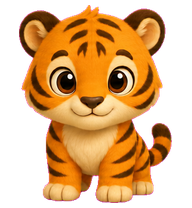
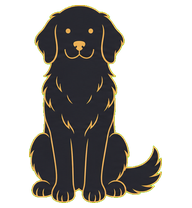
feat: redesign Ranga thinking experience

diff --git a/app/globals.css b/app/globals.css
@@ -65,9 +65,12 @@ header p { color: var(--muted); font-size: 12px; margin: 0; }
 .message-body { position: relative; max-width: 76%; border-radius: 18px; padding: 9px 13px 10px; }
 .message.user .message-body { background: #0a84ff; border-radius: 18px 18px 5px 18px; }
 .message.assistant .message-body { background: var(--assistant-bubble); border-radius: 18px 18px 18px 5px; }
+.message.assistant.thinking .message-body { isolation: isolate; background: #242426; box-shadow: 0 12px 36px #0008; }
+.message.assistant.thinking .message-body::before { content: ""; position: absolute; z-index: -1; inset: -1px; border-radius: inherit; padding: 1px; background: conic-gradient(from var(--thinking-angle), #4cc9ff, #7b61ff, #ff5ea8, #ffbe55, #6ee7b7, #4cc9ff); -webkit-mask: linear-gradient(#000 0 0) content-box, linear-gradient(#000 0 0); -webkit-mask-composite: xor; mask-composite: exclude; animation: thinking-border 2.7s linear infinite; }
+.message.assistant.thinking .message-body::after { content: ""; position: absolute; z-index: -2; inset: -5px; border-radius: 22px; background: conic-gradient(from var(--thinking-angle), #4cc9ff55, #7b61ff44, #ff5ea844, #ffbe5544, #6ee7b744, #4cc9ff55); filter: blur(10px); opacity: .55; animation: thinking-border 2.7s linear infinite; }
 .message.error .message-body { background: #3a1618; color: #ffb4b4; }
 .avatar { flex: 0 0 auto; width: 31px; height: 31px; filter: drop-shadow(0 3px 5px #0008); }
-.avatar.active { background-image: url("/ranga/ranga-running.gif"); }
+.avatar.active { background-image: url("/ranga/ranga-running.gif"); animation: mascot-thinking 1.15s ease-in-out infinite; filter: drop-shadow(0 0 5px #ffbe55cc) drop-shadow(0 0 10px #5ac8fa66); }
 .source { display: block; color: #8e8e93; font-size: 9px; font-weight: 650; letter-spacing: .06em; margin-bottom: 4px; }
 .message p { white-space: pre-wrap; line-height: 1.42; font-size: 14px; letter-spacing: -.005em; margin: 0; }
 .markdown-content { min-width: 0; font-size: 14px; line-height: 1.52; overflow-wrap: anywhere; }
@@ -92,11 +95,13 @@ header p { color: var(--muted); font-size: 12px; margin: 0; }
 .hljs-keyword, .hljs-selector-tag, .hljs-literal { color: #ff7ab2; }.hljs-string, .hljs-attribute { color: #ff8170; }
 .hljs-title, .hljs-function, .hljs-section { color: #82d2ce; }.hljs-number, .hljs-symbol { color: #d9c97c; }
 .hljs-comment, .hljs-quote { color: #7f8c8d; font-style: italic; }.hljs-variable, .hljs-template-variable { color: #c8a1ff; }
-.message-activity { display: flex; align-items: center; gap: 7px; color: #aeaeb2; font-size: 10px; margin-top: 7px; }
-.thinking-dots { display: inline-flex; align-items: center; gap: 3px; height: 9px; }
-.thinking-dots i { width: 5px; height: 5px; border-radius: 50%; background: #aeaeb2; animation: message-dot 1.15s ease-in-out infinite; }
-.thinking-dots i:nth-child(2) { animation-delay: .16s; }.thinking-dots i:nth-child(3) { animation-delay: .32s; }
-@keyframes message-dot { 0%, 60%, 100% { opacity: .35; transform: translateY(0) scale(.9); } 30% { opacity: 1; transform: translateY(-3px) scale(1); } }
+.message-activity { display: flex; align-items: center; gap: 7px; color: #c7c7cc; font-size: 10px; margin-top: 8px; }
+.thinking-runner { position: relative; width: 38px; height: 4px; overflow: hidden; border-radius: 999px; background: #ffffff12; }
+.thinking-runner i { position: absolute; width: 14px; height: 100%; border-radius: inherit; background: linear-gradient(90deg, #4cc9ff, #bf5af2, #ffbe55); box-shadow: 0 0 8px #64d2ff; animation: thinking-run 1.05s ease-in-out infinite alternate; }
+@property --thinking-angle { syntax: "<angle>"; initial-value: 0deg; inherits: false; }
+@keyframes thinking-border { to { --thinking-angle: 360deg; } }
+@keyframes thinking-run { from { transform: translateX(-3px); } to { transform: translateX(27px); } }
+@keyframes mascot-thinking { 0%, 100% { transform: translateY(0) scale(1); } 50% { transform: translateY(-2px) scale(1.035); } }
 .stopped-state { display: flex; align-items: center; gap: 5px; color: #8e8e93; font-size: 10px; margin-top: 7px; }
 .stopped-state i { width: 7px; height: 7px; border-radius: 2px; background: #8e8e93; }
 .composer-wrap { width: min(780px, calc(100% - 36px)); margin: 0 auto; padding-bottom: 14px; }

diff --git a/app/page.tsx b/app/page.tsx
@@ -276,7 +276,7 @@ export default function Home() {
             </section>
           )}
           {messages.map((message) => (
-            <article key={message.id} className={`message ${message.role} ${message.error ? "error" : ""}`}>
+            <article key={message.id} className={`message ${message.role} ${message.error ? "error" : ""} ${message.active ? "thinking" : ""}`}>
               {message.role === "assistant" && <div className={`avatar ${message.active ? "active" : ""}`} aria-hidden="true" />}
               <div className="message-body">
                 {message.source && <span className="source">LOCAL</span>}
@@ -285,7 +285,7 @@ export default function Home() {
                   : <p>{message.content}</p>)}
                 {message.active && (
                   <div className="message-activity" role="status" aria-label="Rangabot is thinking">
-                    <span className="thinking-dots" aria-hidden="true"><i /><i /><i /></span>
+                    <span className="thinking-runner" aria-hidden="true"><i /></span>
                     <span>Thinking</span>
                   </div>
                 )}

diff --git a/DAILY_PROGRESS.md b/DAILY_PROGRESS.md
@@ -63,3 +63,16 @@ Next approved item: Markdown and syntax-highlighted code rendering with copy con
 - Added focused tests for inline-versus-block code and language detection.
 
 Next approved item: model management and active local model selection.
+
+## 2026-07-28 — Golden Ranga and illuminated thinking
+
+- Replaced the colorful tiger mascot with a minimal charcoal golden-retriever
+  shadow, using a restrained warm-gold outline for clarity at small sizes.
+- Added quiet idle breathing and blink motion, plus a focused processing loop
+  while the local model responds.
+- Redesigned the active assistant bubble with a moving multicolor light edge
+  and an internal light runner inspired by modern ambient voice interfaces.
+- Added a synchronized gold-and-blue mascot glow that stops with generation.
+
+The optional full directional pet atlas remains under visual QA and is not used
+by the chat interface until its final edge gate passes.

diff --git a/ROADMAP.md b/ROADMAP.md
@@ -5,6 +5,7 @@
 - [x] Local Ollama provider behind typed interfaces
 - [x] Streaming responses and Stop generation
 - [x] Apple-inspired interface and Ranga mascot
+- [x] Minimal golden-retriever Ranga with ambient thinking-light treatment
 - [x] Local SQLite conversation history: create, list, reopen, update, and delete
 - [x] Markdown and syntax-highlighted code rendering with copy controls
 - [ ] Model management for installed models and active selection
